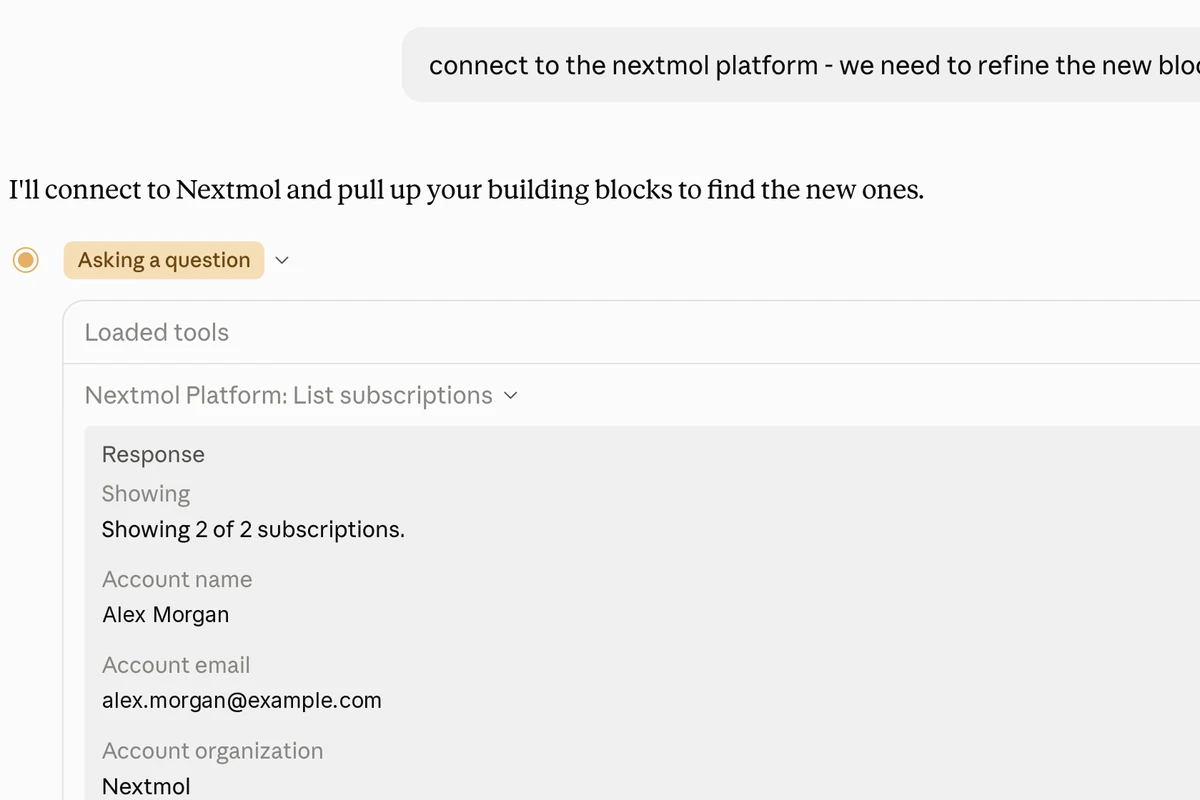
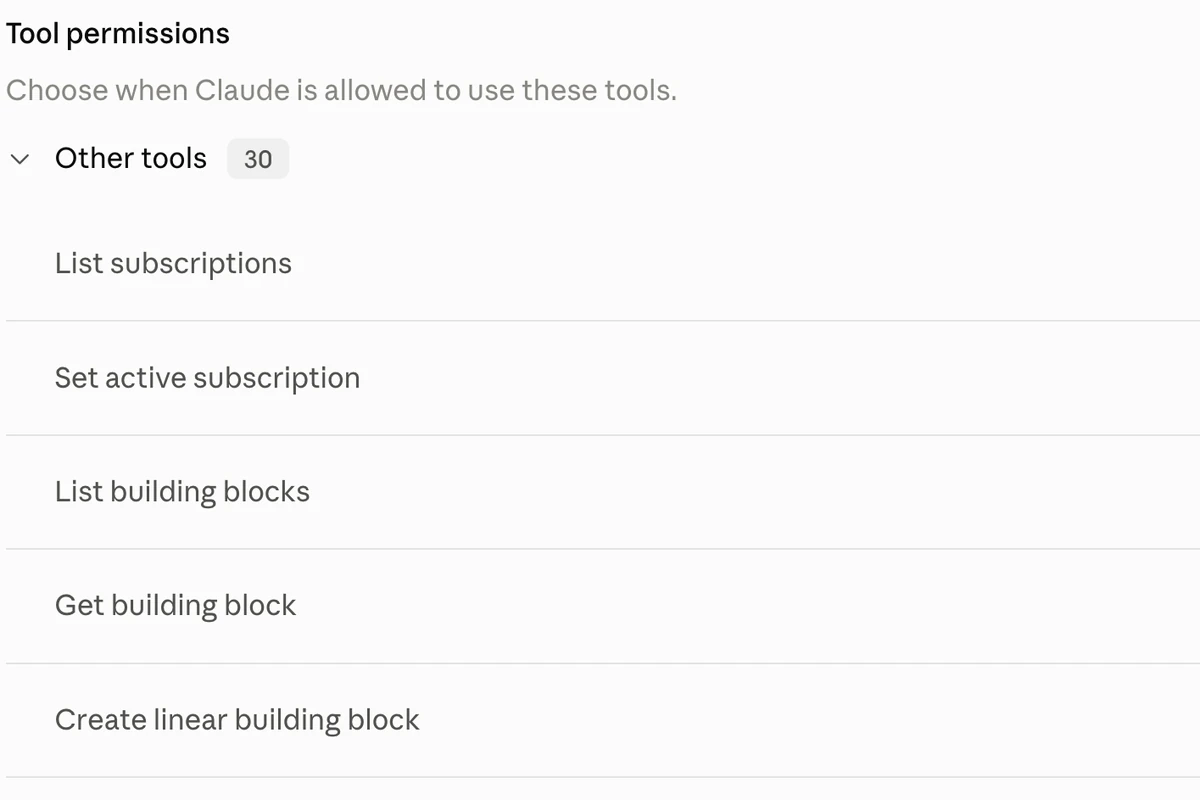
Nextmol card: show only the tool list, no client name on screen
Claude-Session: https://claude.ai/code/session_01Hufgv7xfSU7ECG47CyJbwe

diff --git a/index.html b/index.html
@@ -596,7 +596,7 @@
         <span class="eyebrow">Client work</span>
         <div class="pf-grid">
           <article class="pf-card">
-            <div class="thumb detail" data-label="Nextmol" role="button" tabindex="0" aria-label="Enlarge Nextmol screenshots"><div class="slides"><img src="img/work/nextmol-1-detail.webp" data-full="img/work/nextmol-1.webp" alt="Nextmol · Claude connected to the Nextmol platform through its MCP server" loading="lazy" width="1200" height="800" /><img data-src="img/work/nextmol-2-detail.webp" data-full="img/work/nextmol-2.webp" alt="Nextmol · Installed as a Claude extension, with 30 platform tools" loading="lazy" width="1200" height="800" /></div></div>
+            <div class="thumb detail" data-label="Nextmol" role="button" tabindex="0" aria-label="Enlarge Nextmol screenshot"><div class="slides"><img src="img/work/nextmol-1-detail.webp" data-full="img/work/nextmol-1.webp" alt="Nextmol · The platform’s tools exposed to Claude, with per-tool permissions" loading="lazy" width="1200" height="800" /></div></div>
             <div class="pf-body">
               <div class="top"><h3>Nextmol</h3></div>
               <p>MCP server and Claude plugin that connect a computational-chemistry platform and its API to Claude, so researchers can drive the platform directly from AI.</p>
